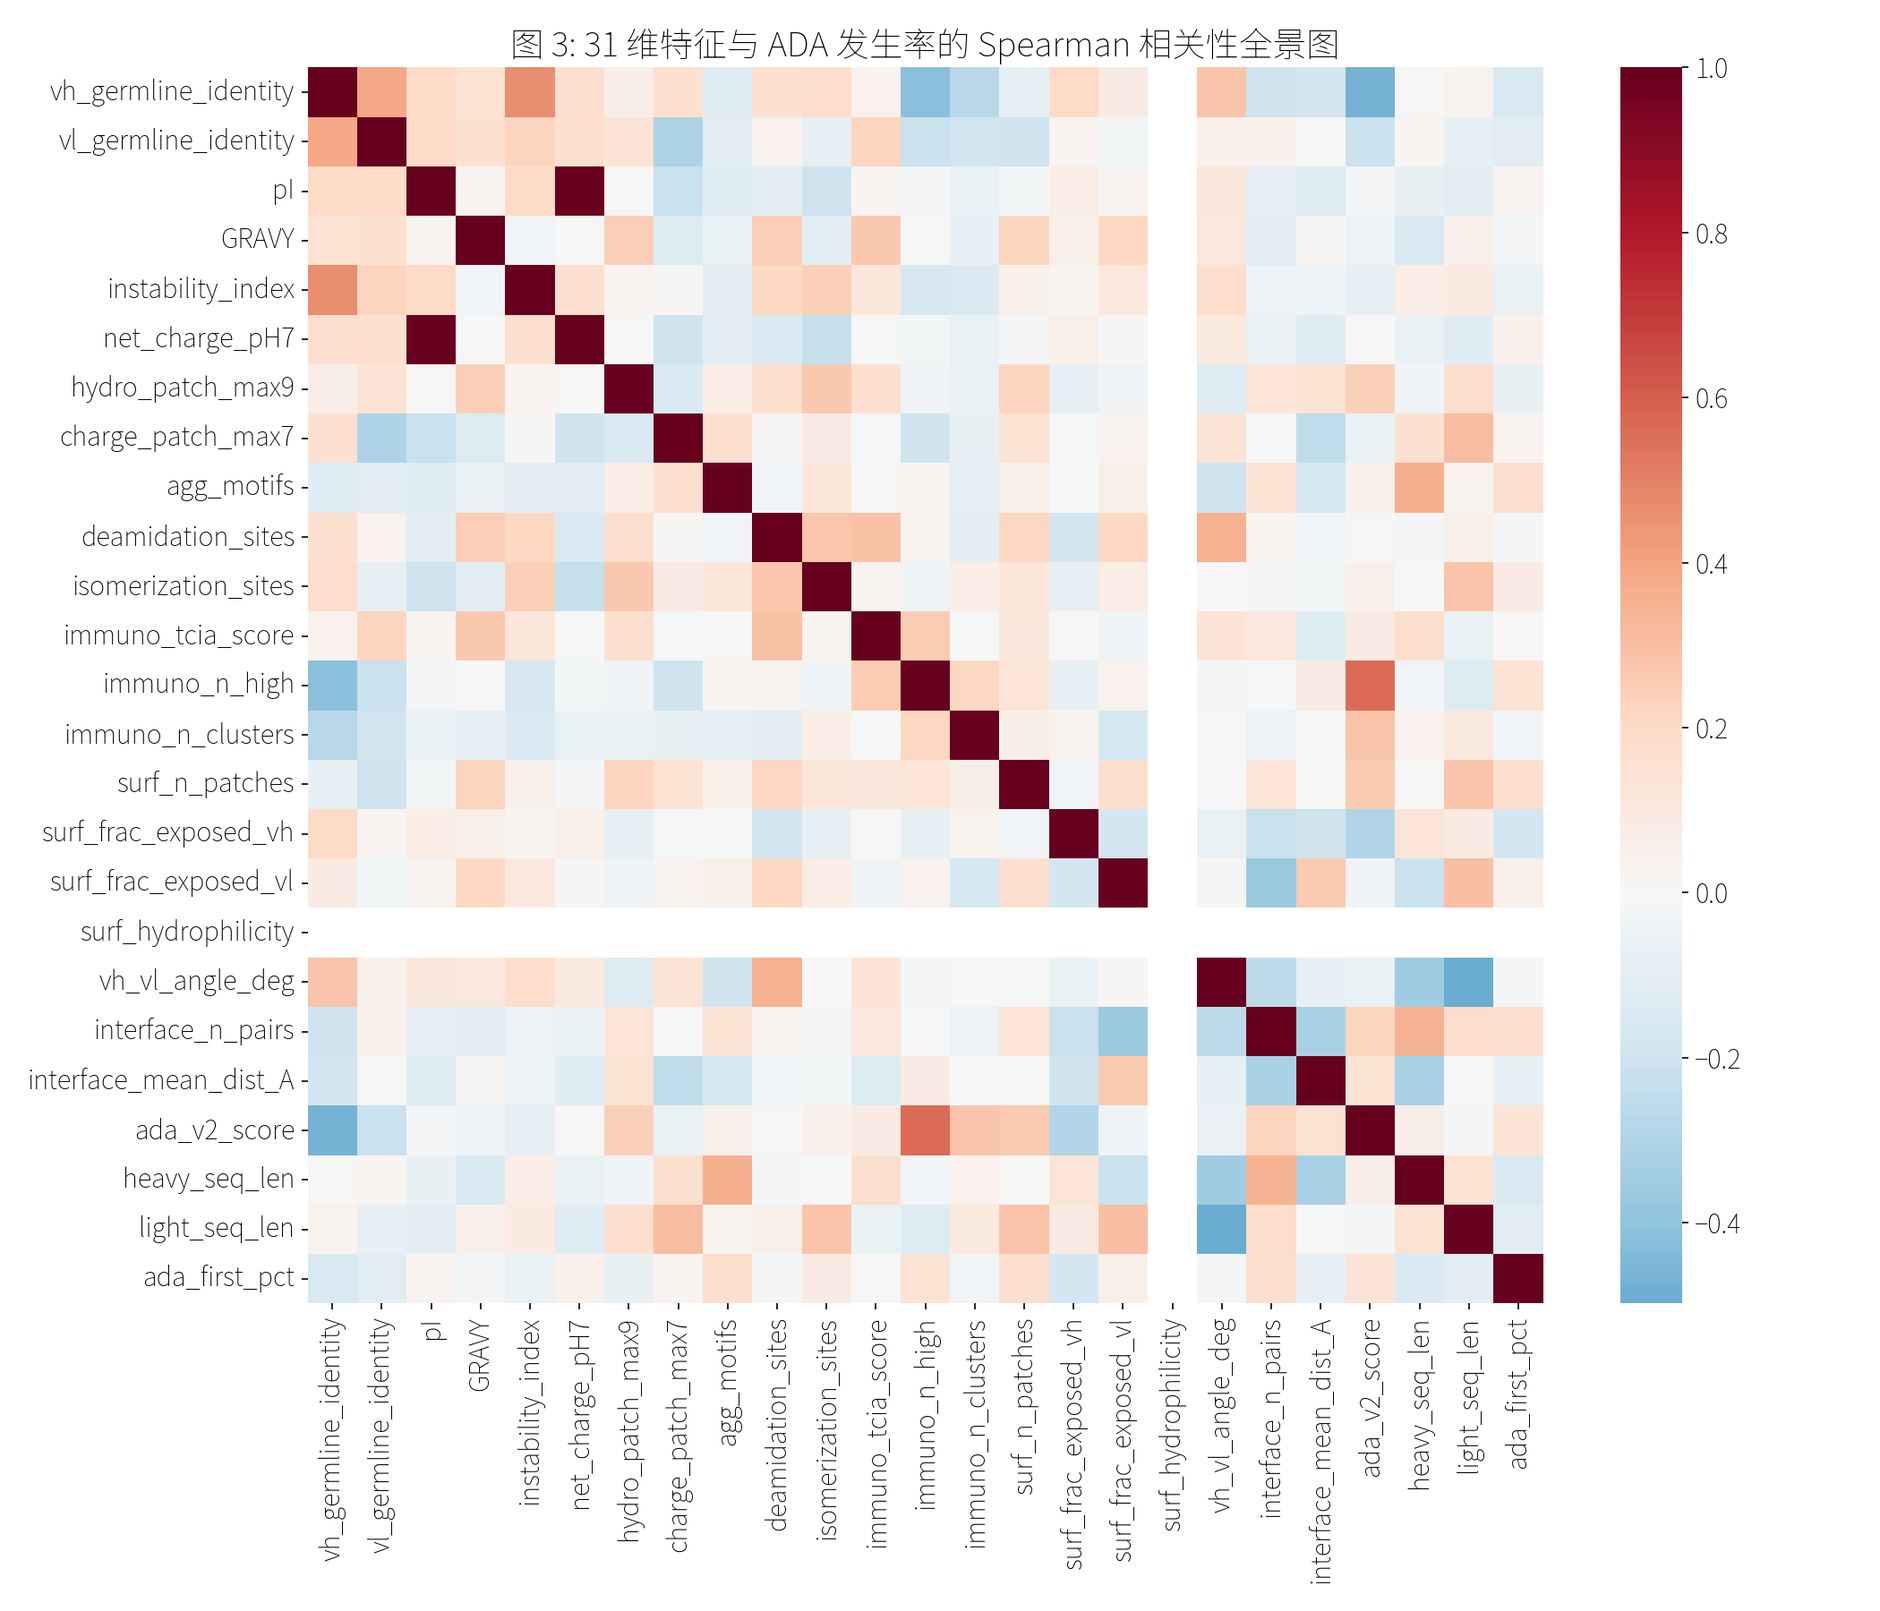
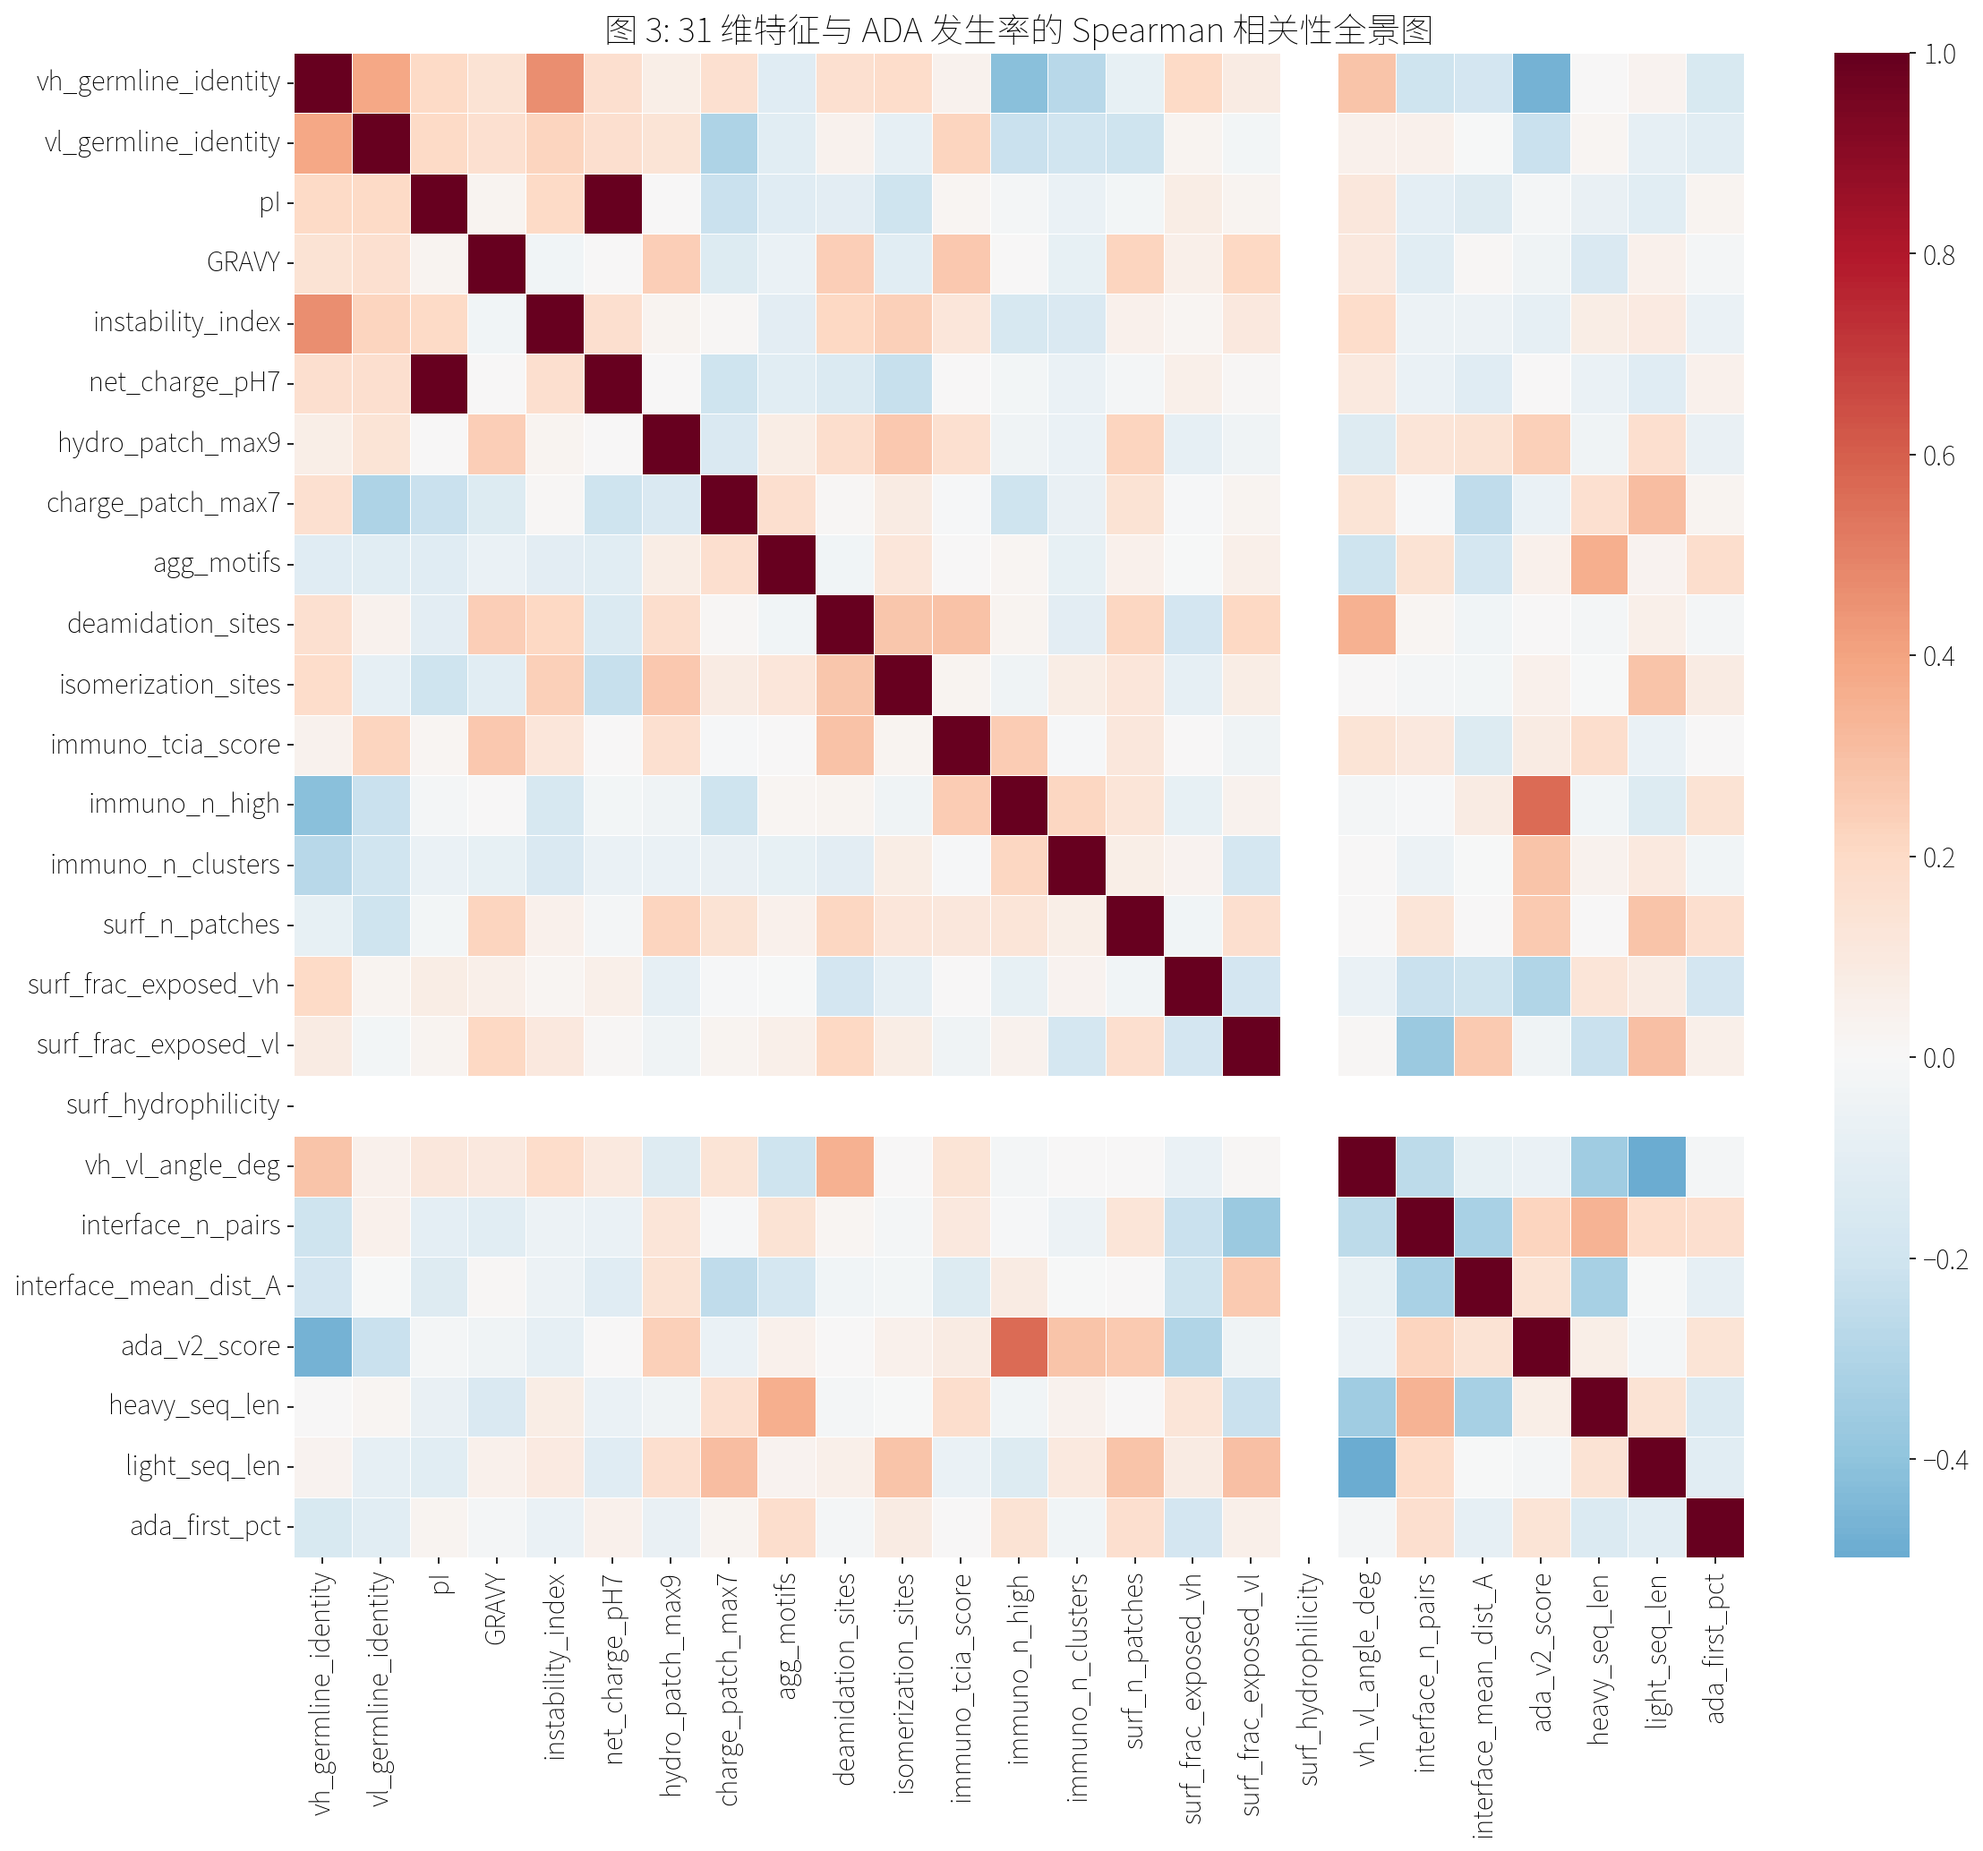
Update: FH/HU dual-track figures, 3-panel distribution, composite score

diff --git a/Therasik_Immunogenicity.html b/Therasik_Immunogenicity.html
@@ -281,12 +281,12 @@
     <p>我们的研究揭示了全人源（FH）与人源化（HU）两类抗体的免疫原性风险由完全不同的机制驱动，因此建立了 <strong>ADA V2 双轨制预测模型</strong>，分别使用不同的评估参数与权重体系。</p>
 
     <div style="margin: 32px 0; text-align: center;">
-      <h4 style="font-size: 18px; font-weight: 700; color: #111827; margin-bottom: 16px;">图 1: 138 种临床抗体 ADA 发生率分布 (高度右偏，分层建模必要性)</h4>
+      <h4 style="font-size: 18px; font-weight: 700; color: #111827; margin-bottom: 16px;">图 1: ADA 发生率分布 — 全部 138 种 / 人源化 (HU) / 全人源 (FH)</h4>
       <img src="images/ada_study/fig1_ada_distribution.png" alt="ADA Distribution" style="max-width: 100%; width: 1000px; height: auto; border-radius: 12px; box-shadow: 0 4px 20px rgba(0,0,0,0.08);">
     </div>
 
     <div style="margin: 32px 0; text-align: center;">
-      <h4 style="font-size: 18px; font-weight: 700; color: #111827; margin-bottom: 16px;">图 2: 按人源化策略与检测方法的 ADA 分布差异</h4>
+      <h4 style="font-size: 18px; font-weight: 700; color: #111827; margin-bottom: 16px;">图 2: 按人源化策略、检测方法、给药途径与 Fc 亚型的 ADA 分布差异</h4>
       <img src="images/ada_study/fig2_ada_boxplots.png" alt="ADA Boxplots" style="max-width: 100%; width: 1000px; height: auto; border-radius: 12px; box-shadow: 0 4px 20px rgba(0,0,0,0.08);">
     </div>
 
@@ -325,9 +325,24 @@
         </div>
       </div>
 
+      <div style="display:flex;align-items:center;gap:16px;background:#fff;border:1.5px solid rgba(13,148,136,0.25);border-radius:12px;padding:18px 24px;margin-bottom:24px;">
+        <div style="text-align:center;flex-shrink:0;">
+          <div style="font-size:11px;font-weight:700;text-transform:uppercase;letter-spacing:0.06em;color:#0d9488;">FH 综合评分</div>
+          <div style="font-size:36px;font-weight:700;color:#111827;line-height:1.2;">ρ = +0.266</div>
+          <div style="font-size:12px;color:#6b7280;">p = 0.054 · n = 53</div>
+        </div>
+        <div style="font-size:14px;color:#374151;line-height:1.6;">
+          ADA V2 综合评分整合了上述四项核心因子，在 FH 子集中与临床 ADA 呈正相关趋势。该评分反映了界面稳定性、种系偏离、疏水斑块和 T 细胞表位的联合效应——综合维度的预测效力接近最强单因子水平。
+        </div>
+      </div>
+
       <div style="margin: 24px 0; text-align: center;">
-        <h4 style="font-size: 16px; font-weight: 700; color: #111827; margin-bottom: 12px;">图 3: FH 抗体——31 维特征与 ADA 相关性全景（高灵敏度子集）</h4>
+        <h4 style="font-size: 16px; font-weight: 700; color: #111827; margin-bottom: 12px;">图 3: 31 维特征与 ADA 发生率的 Spearman 相关性全景图</h4>
         <img src="images/ada_study/fig3_correlation_heatmap.png" alt="Correlation Heatmap" style="max-width: 100%; width: 1000px; height: auto; border-radius: 12px; box-shadow: 0 4px 20px rgba(0,0,0,0.08);">
+      </div>
+      <div style="margin: 24px 0; text-align: center;">
+        <h4 style="font-size: 16px; font-weight: 700; color: #111827; margin-bottom: 12px;">图 4: FH 抗体——界面接触、种系偏离、疏水斑块与 MHC-II 表位散点分析</h4>
+        <img src="images/ada_study/fig4_scatter_key_features.png" alt="FH Scatter Analysis" style="max-width: 100%; width: 1000px; height: auto; border-radius: 12px; box-shadow: 0 4px 20px rgba(0,0,0,0.08);">
       </div>
       <div style="background:rgba(13,148,136,0.06);border-left:3px solid #0d9488;padding:12px 16px;border-radius:6px;font-size:14px;color:#065f58;">
         <strong>关键结论</strong>：全人源抗体的免疫原性直接反映分子设计质量——减少界面异常、控制 SHM 程度、降低疏水斑块，是降低 ADA 风险的三条核心路径。高灵敏度检测（Tiered/ECL）能更清晰地揭示 T 细胞表位的贡献。
@@ -375,12 +390,22 @@
       </div>
 
       <div style="margin: 24px 0; text-align: center;">
-        <h4 style="font-size: 16px; font-weight: 700; color: #111827; margin-bottom: 12px;">图 4: HU 抗体——关键特征与 ADA 相关性散点分析（HU 高灵敏度子集）</h4>
-        <img src="images/ada_study/fig4_scatter_key_features.png" alt="Scatter Analysis" style="max-width: 100%; width: 1000px; height: auto; border-radius: 12px; box-shadow: 0 4px 20px rgba(0,0,0,0.08);">
+        <h4 style="font-size: 16px; font-weight: 700; color: #111827; margin-bottom: 12px;">图 5: HU 抗体——聚集基序、种系一致性、不稳定性与 TCIA 评分散点分析</h4>
+        <img src="images/ada_study/fig5_hu_scatter.png" alt="HU Scatter Analysis" style="max-width: 100%; width: 1000px; height: auto; border-radius: 12px; box-shadow: 0 4px 20px rgba(0,0,0,0.08);">
       </div>
       
       <div style="background:rgba(29,78,216,0.05);border-left:3px solid #1d4ed8;padding:12px 16px;border-radius:6px;font-size:14px;color:#1e3a8a;">
         <strong>关键结论</strong>：人源化抗体的临床 ADA 被免疫抑制剂等管理措施压低，掩盖了分子层面的真实风险。Therasik HU 专项系统绕过这一干扰，直接从"设计质量"切入——Vernier Zone 与 Junction 是否在降解后产生强 T 细胞信号，才是评估 HU 免疫原性风险的核心维度。
+      </div>
+    </div>
+
+    <!-- ── Composite Score ── -->
+    <div style="margin: 40px 0;">
+      <h3 style="font-family:'Cormorant Garamond',serif;font-size:26px;font-weight:600;color:#111827;margin-bottom:16px;">ADA V2 综合评分：FH vs HU 的预测效力对比</h3>
+      <p style="color:#374151;font-size:16px;line-height:1.7;margin-bottom:16px;">ADA V2 综合评分将多维特征加权整合为单一风险指标。在 FH 子集中，综合评分与临床 ADA 呈正相关趋势（ρ=+0.266, p=0.054），接近统计显著。HU 子集中因临床免疫抑制剂的广泛使用，表观信号被压低（ρ≈0）——这恰恰验证了双轨制的必要性。</p>
+      <div style="margin: 0; text-align: center;">
+        <h4 style="font-size: 16px; font-weight: 700; color: #111827; margin-bottom: 12px;">图 6: ADA V2 综合评分与临床 ADA — FH vs HU 对比</h4>
+        <img src="images/ada_study/fig7_ada_v2_composite.png" alt="ADA V2 Composite Score" style="max-width: 100%; width: 1000px; height: auto; border-radius: 12px; box-shadow: 0 4px 20px rgba(0,0,0,0.08);">
       </div>
     </div>
 
@@ -389,7 +414,7 @@
       <h3 style="font-family:'Cormorant Garamond',serif;font-size:26px;font-weight:600;color:#111827;margin-bottom:16px;">CMC 可开发性特征：FH 与 HU 的共通风险</h3>
       <p style="color:#374151;font-size:16px;line-height:1.7;margin-bottom:16px;">无论 FH 还是 HU，<strong>聚集基序和疏水斑块</strong>在全样本面板中均维持正相关（全面板 ρ=+0.177, p=0.045），为早期 CMC 筛选提供了共通的免疫学风险依据。检测方法分层（Kruskal-Wallis p=0.852）证实这一相关性不受检测代际偏差影响。</p>
       <div style="margin: 0; text-align: center;">
-        <h4 style="font-size: 16px; font-weight: 700; color: #111827; margin-bottom: 12px;">图 5: CMC 可开发性特征（聚集基序、脱酰胺等）与 ADA 的跨抗体形式关联</h4>
+        <h4 style="font-size: 16px; font-weight: 700; color: #111827; margin-bottom: 12px;">图 7: CMC 可开发性特征（聚集基序、脱酰胺等）与 ADA 的跨抗体形式关联</h4>
         <img src="images/ada_study/fig8_cmc_vs_ada.png" alt="CMC vs ADA" style="max-width: 100%; width: 1000px; height: auto; border-radius: 12px; box-shadow: 0 4px 20px rgba(0,0,0,0.08);">
       </div>
     </div>
